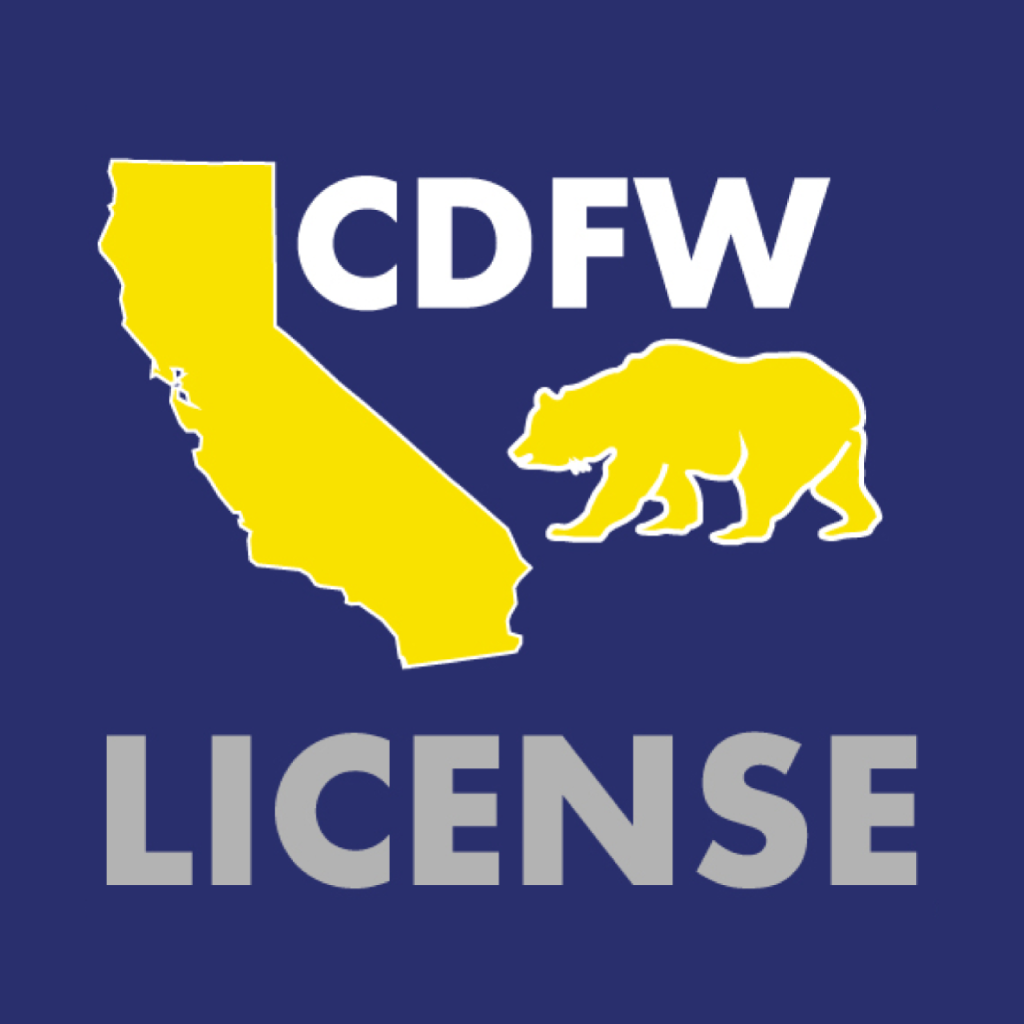
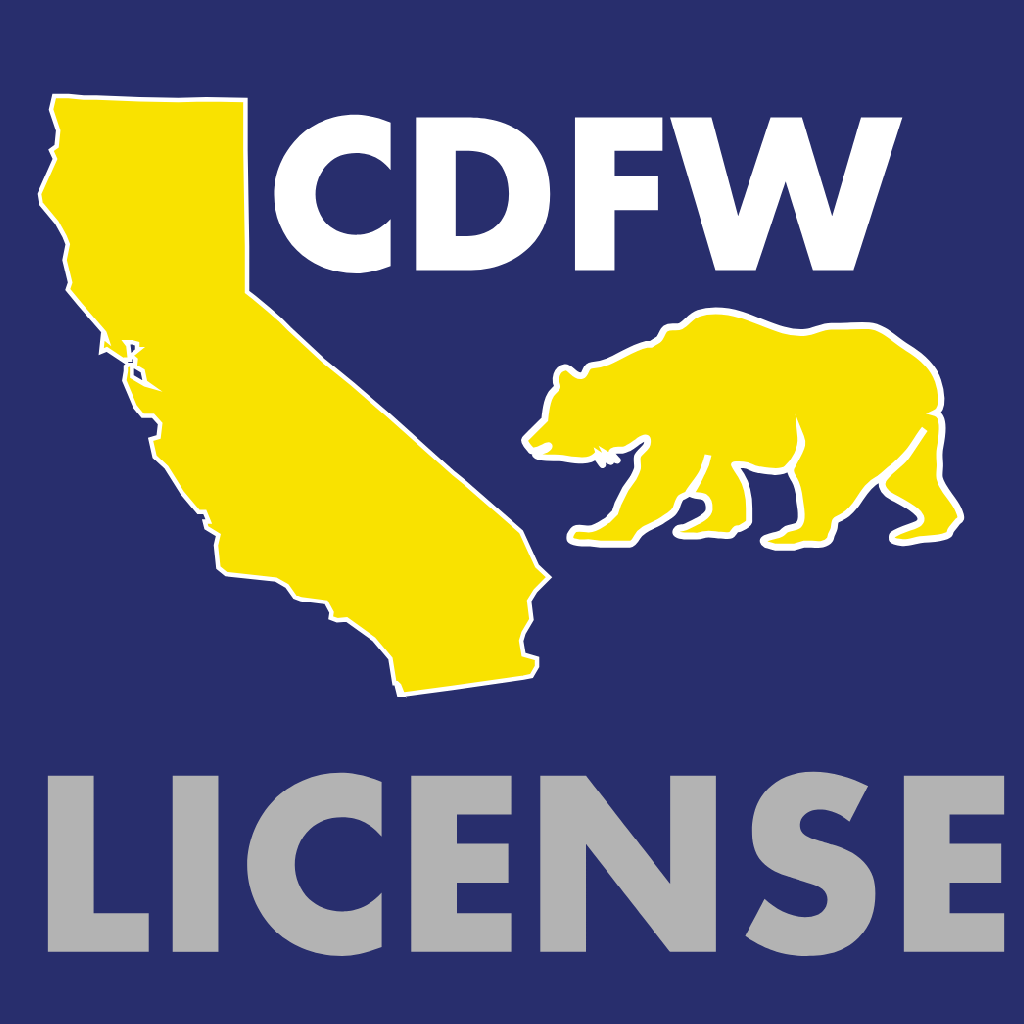
AWO-216394 PCRD624 - CA app -1107 Feedback - Image Update and Mobile name change (iOS)

Changed region(s): [[0.0312, 0.0938, 0.9375, 0.6875], [0.0312, 0.6875, 1.0, 0.9375], [0.375, 0.4062, 0.4062, 0.4375]]

diff --git a/hf-ca/src/screens/login/LoginScreen.js b/hf-ca/src/screens/login/LoginScreen.js
@@ -9,7 +9,7 @@ import { updateLoginStep } from "../../redux/AppSlice";
 import PrimaryBtn from "../../components/PrimaryBtn";
 import { DEFAULT_MARGIN, SCREEN_HEIGHT } from "../../constants/Dimension";
 import AppTheme from "../../assets/_default/AppTheme";
-import { getLoginSplash, getLogo, getLogoRatio } from "../../helper/ImgHelper";
+import { getLoginLogo, getLoginSplash, getLogoRatio } from "../../helper/ImgHelper";
 import SplitLine from "../../components/SplitLine";
 import OutlinedBtn from "../../components/OutlinedBtn";
 import { appConfig } from "../../services/AppConfigService";
@@ -82,7 +82,7 @@ export default function LoginScreen() {
                     },
                 ]}
                 contentFit="contain"
-                source={getLogo()}
+                source={getLoginLogo()}
             />
 
             <ScrollView

diff --git a/hf-ca/src/helper/ImgHelper.js b/hf-ca/src/helper/ImgHelper.js
@@ -17,6 +17,10 @@ export async function getLoginSplash() {
     return getDefaultLoginSplash();
 }
 
+export function getLoginLogo() {
+    return require("../assets/_default/images/login_logo.png");
+}
+
 export function getLogo() {
     return require("../assets/_default/images/logo.png");
 }
